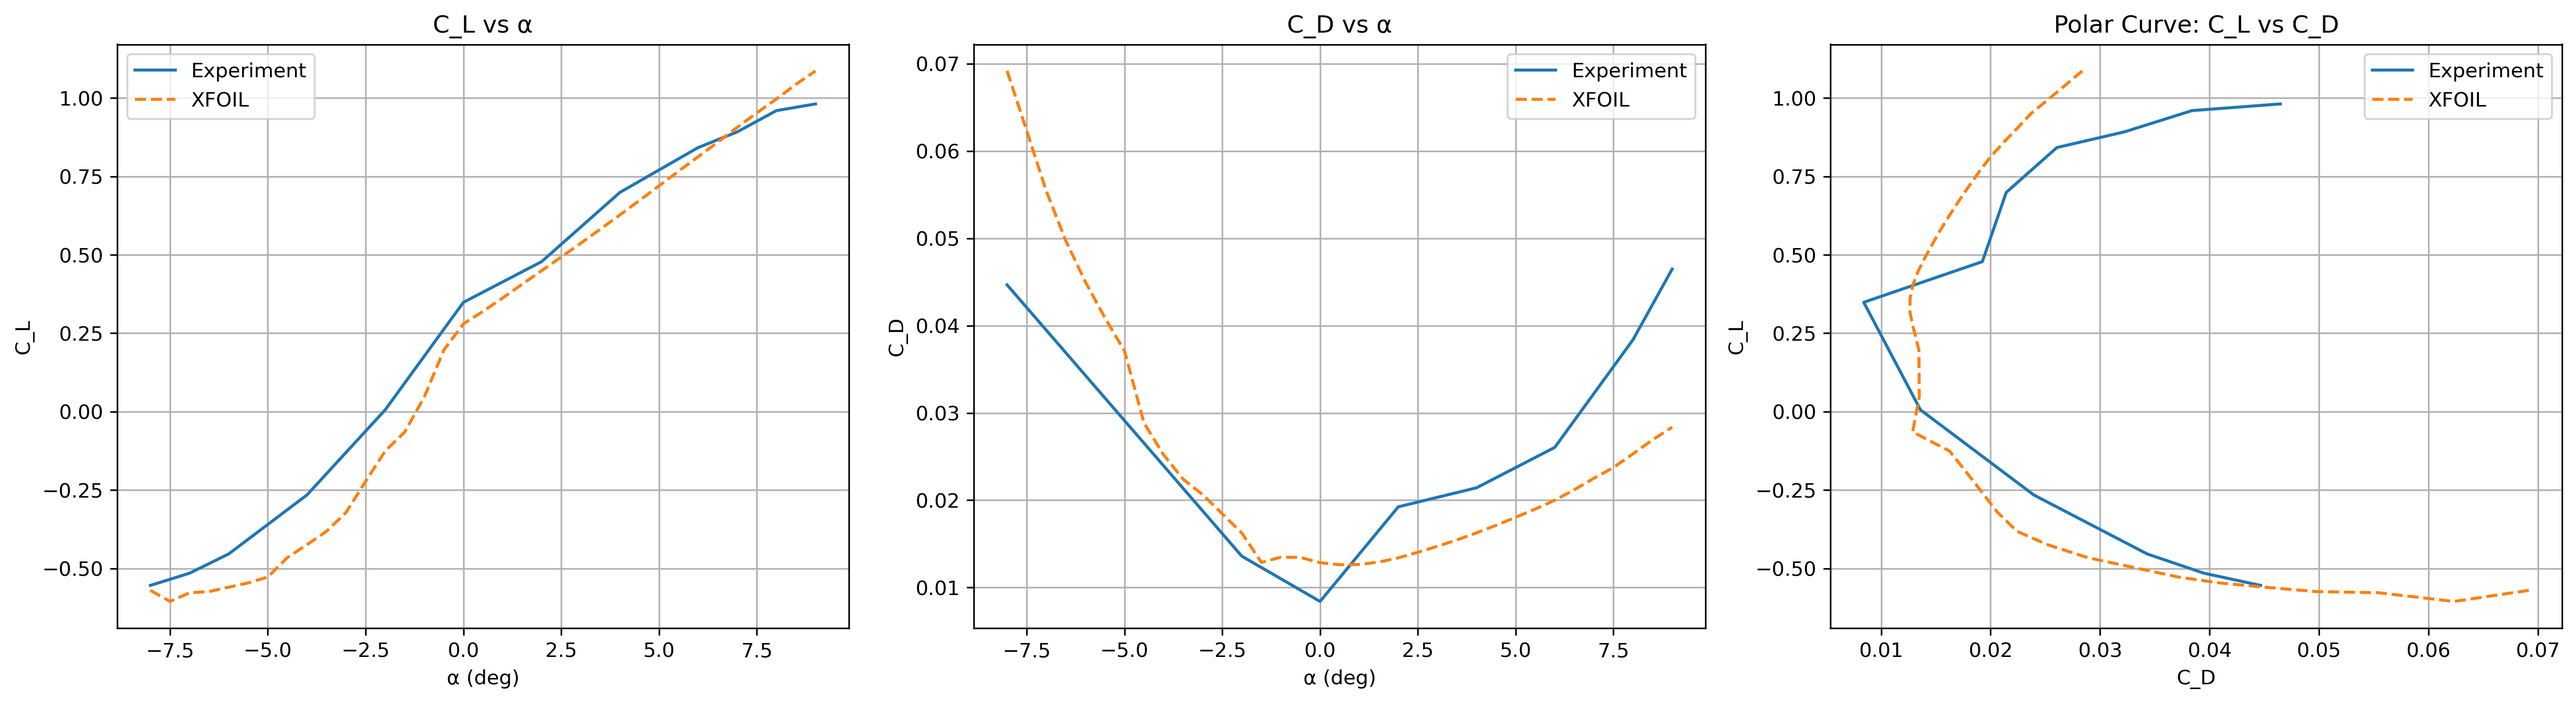
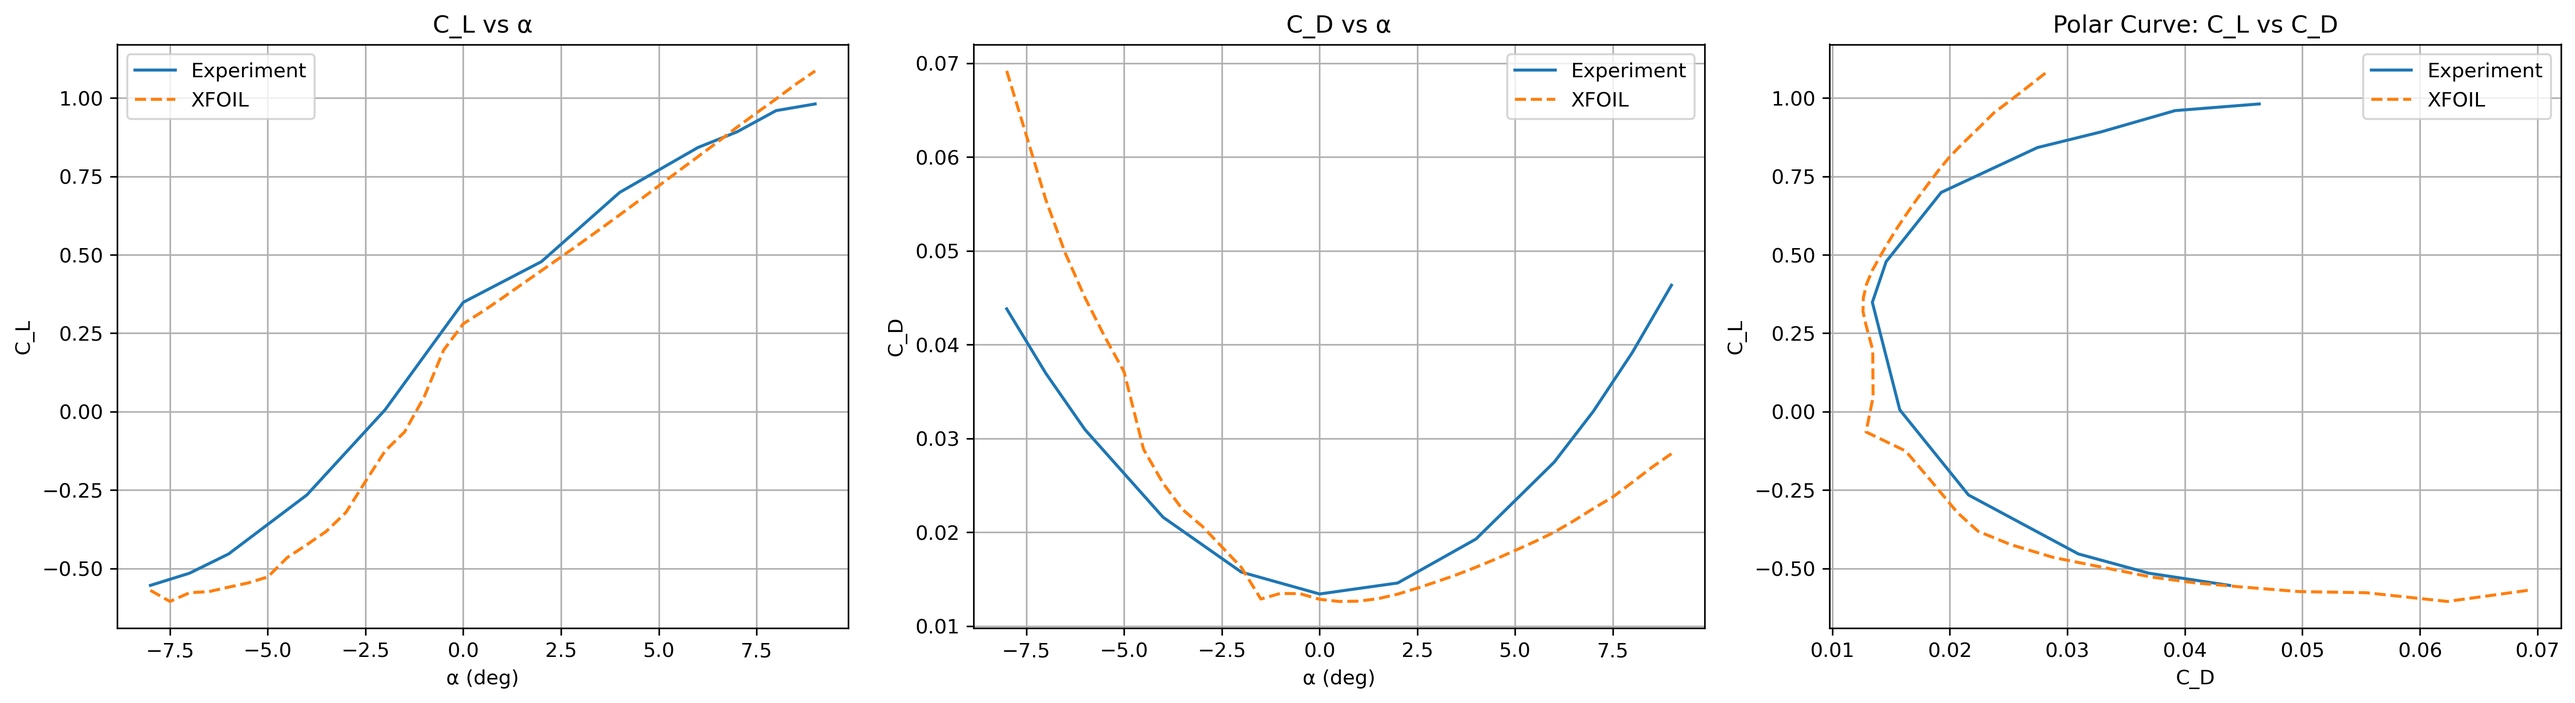
better combined plots

diff --git a/FInal2.0Var.py b/FInal2.0Var.py
@@ -567,7 +567,6 @@ print("Saved all plots to output_dir")
 
 # === PART 5: EXPERIMENT vs XFOIL COMPARISON PLOTS ===
 
-from scipy.interpolate import interp1d
 
 # — assume these already exist in your script —
 #   alpha_array, cl_arr, CD_array   ← your experimental sweep arrays
@@ -576,12 +575,12 @@ from scipy.interpolate import interp1d
 # 1) Build unified experimental vectors
 alpha_exp_all = np.array(sorted(cl_values.keys()))            # experimental angles
 cl_exp_all    = np.array([cl_values[a] for a in alpha_exp_all])
-# create a CD interpolator on your experimental data
-cd_exp_interp = interp1d(alpha_array, CD_array,
-                         kind='linear',
-                         bounds_error=False,
-                         fill_value="extrapolate")
-cd_exp_all    = cd_exp_interp(alpha_exp_all)
+# Fit a second-degree polynomial to experimental CD vs alpha
+cd_coeffs = np.polyfit(alpha_array, CD_array, deg=2)
+
+# Evaluate polynomial at all desired alpha points
+cd_exp_all = np.polyval(cd_coeffs, alpha_exp_all)
+
 
 # 2) Restrict to the overlap between experiment and XFOIL
 alpha_min = max(alpha_exp_all.min(), alpha.min())
